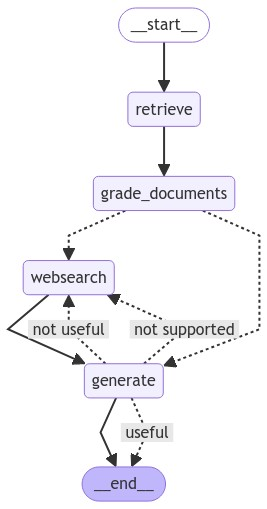
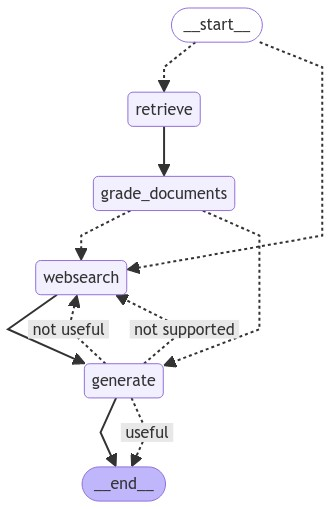
router graph

diff --git a/graph/graph.py b/graph/graph.py
@@ -1,6 +1,7 @@
 from dotenv import load_dotenv
 
 from langgraph.graph import END, StateGraph
+from regex import P
 
 from graph.consts import RETRIEVE, GRADE_DOCUMENTS, WEBSEARCH, GENERATE
 from graph.nodes import generate, web_search, grade_documents, retrieve
@@ -8,6 +9,7 @@ from graph.state import GraphState
 
 from graph.chains.answer_grader import answer_grader
 from graph.chains.hallucination_grader import hallucination_grader
+from graph.chains.router import question_router, RouteQuery
 
 load_dotenv()
 
@@ -22,7 +24,7 @@ def decide_to_generate(state: GraphState):
     else:
         print("---DECISION: GENERATE---")
         return GENERATE
-    
+
 def grade_generation_grounded_in_documents_and_question(state: GraphState):
     print("---CHECK HALLUCINATIONS---")
     question = state["question"]
@@ -46,7 +48,16 @@ def grade_generation_grounded_in_documents_and_question(state: GraphState):
         print("---DECISION: GENERATION IS NOT GROUNDED IN DOCUMENTS---")
         return "not supported"
     
-    
+def route_question(state: GraphState):
+    print("---ROUTE QUESTION---")
+    question = state["question"]
+    source: RouteQuery = question_router.invoke({"question": question})
+    if source.datasource == "vectorstore":
+        print("---ROUTE QUESTION TO VECTOR STORE---")
+        return RETRIEVE
+    elif source.datasource == WEBSEARCH:
+        print("---ROUTE QUESTION TO WEB SEARCH---")
+        return WEBSEARCH
 
 workflow = StateGraph(GraphState)
 workflow.add_node(RETRIEVE, retrieve)
@@ -54,7 +65,14 @@ workflow.add_node(GRADE_DOCUMENTS, grade_documents)
 workflow.add_node(WEBSEARCH, web_search)
 workflow.add_node(GENERATE, generate)
 
-workflow.set_entry_point(RETRIEVE)
+# workflow.set_entry_point(RETRIEVE)
+workflow.set_conditional_entry_point(
+    route_question,
+    {
+        RETRIEVE: RETRIEVE,
+        WEBSEARCH: WEBSEARCH,
+    }
+)
 
 workflow.add_edge(RETRIEVE, GRADE_DOCUMENTS)
 workflow.add_conditional_edges(

diff --git a/graph/chains/tests/test_chains.py b/graph/chains/tests/test_chains.py
@@ -10,7 +10,7 @@ load_dotenv()
 from graph.chains.retrieval_grader import GradeDocuments, retrieval_grader
 from graph.chains.generation import generation_chain
 from graph.chains.hallucination_grader import GradeHallucinations, hallucination_grader
-from graph.chains.router import router, RouteQuery
+from graph.chains.router import question_router, RouteQuery
 from ingestion import retriever
     
 def test_retrival_grade_answer_yes():
@@ -58,11 +58,11 @@ def test_hallucination_grader_no() -> None:
 
 def test_router_to_vectorstore() -> None:
     question = "agent memory"
-    res: RouteQuery = router.invoke({"question": question})
+    res: RouteQuery = question_router.invoke({"question": question})
     assert res.datasource == "vectorstore"
 
 def test_router_to_websearch() -> None:
     question = "how to make pizza"
-    res: RouteQuery = router.invoke({"question": question})
+    res: RouteQuery = question_router.invoke({"question": question})
     assert res.datasource == "websearch"
 

diff --git a/main.py b/main.py
@@ -6,4 +6,4 @@ from graph.graph import app
 
 if __name__ == '__main__':
     print('Hello, cRAG!')
-    print(app.invoke(input={"question": "what is agent memory?"}))
+    print(app.invoke(input={"question": "how to make pizza?"}))

diff --git a/graph/chains/router.py b/graph/chains/router.py
@@ -25,4 +25,4 @@ route_prompt = ChatPromptTemplate.from_messages(
     ]
 )
 
-router: RunnableSequence = route_prompt | structured_llm_router
+question_router: RunnableSequence = route_prompt | structured_llm_router
